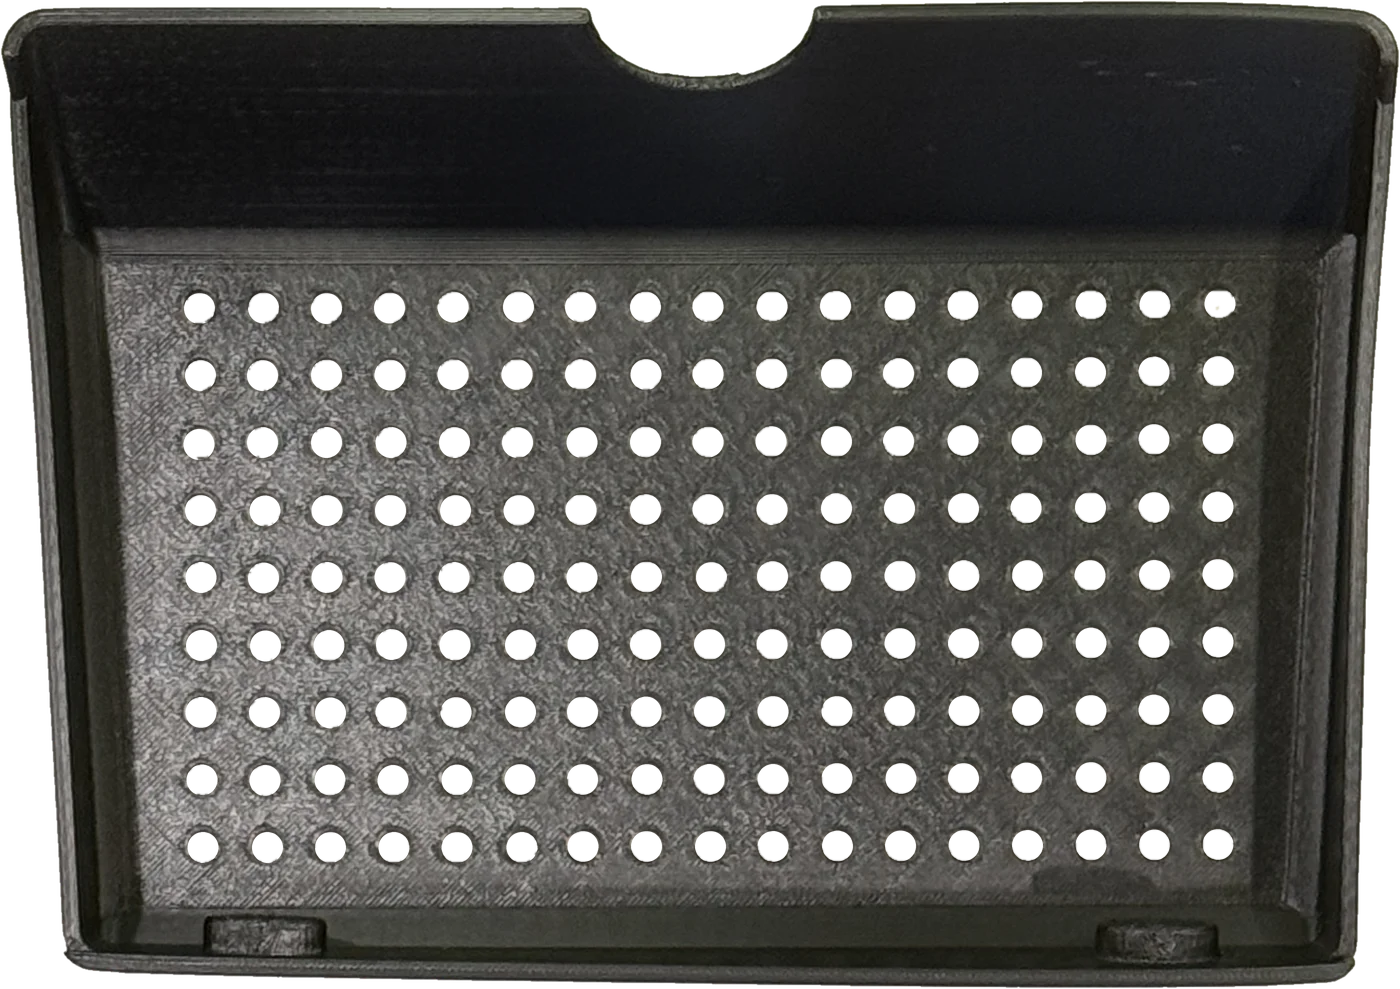
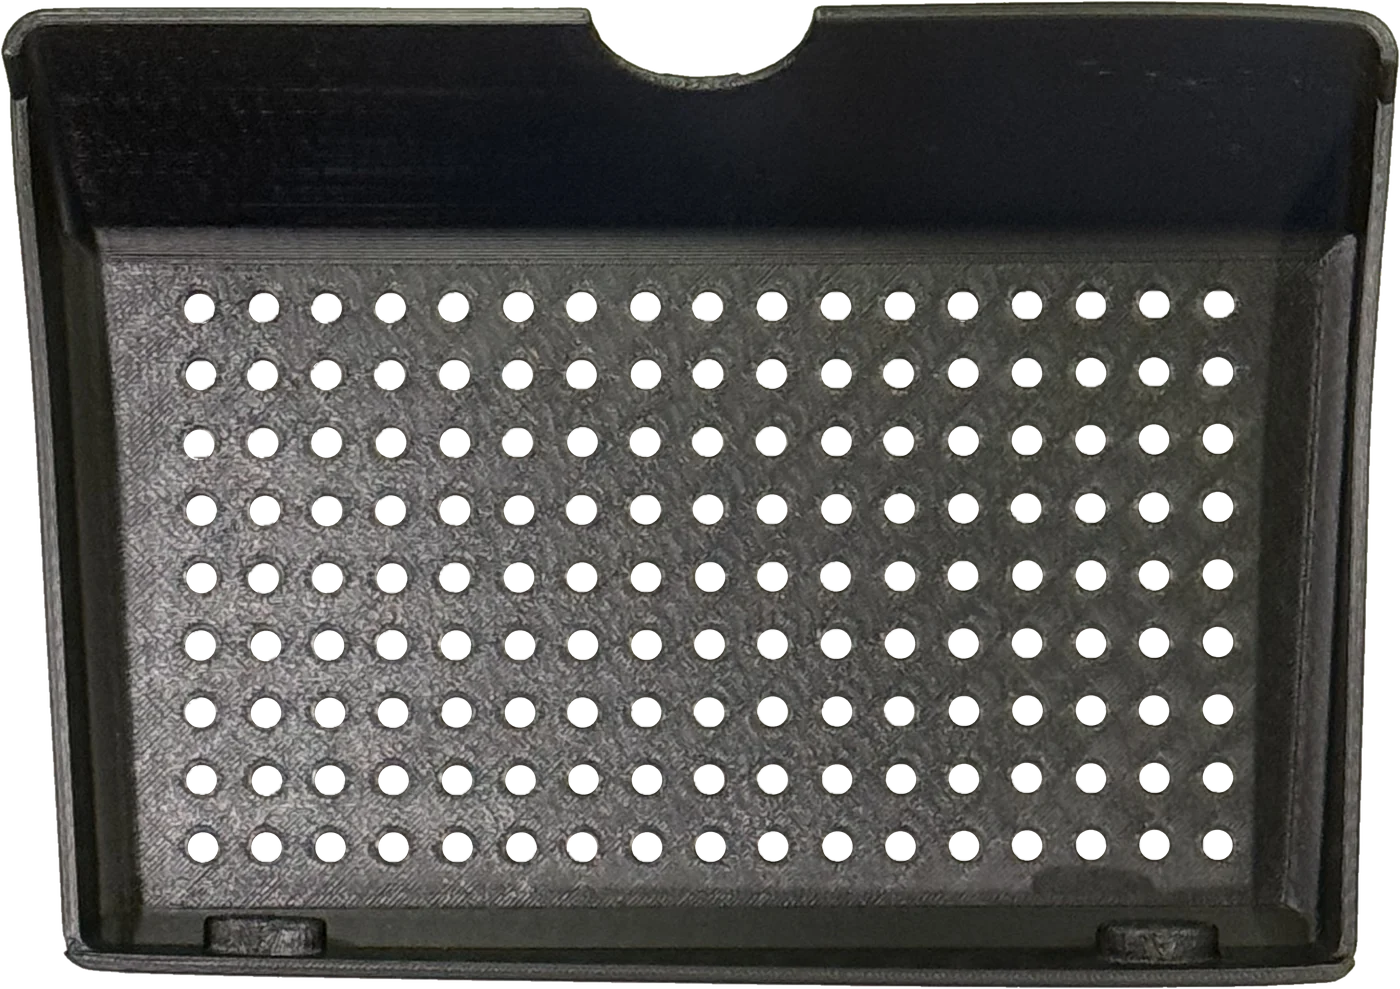
Modular Car Container: past the parts, every frame is the fourth frame itself — the lip along the top and the rim down the sides no longer go lighter and darker as the parts come; only each part and a soft margin round it are its own frame's

diff --git a/scripts/make-container-frames.py b/scripts/make-container-frames.py
@@ -155,6 +155,31 @@ for _i, _f in enumerate(fr):
     _f[..., :3] *= _g[..., None]
 print('light evened: mean gain per frame', _gains)
 
+# And past the parts, the fourth frame itself. The light above is smooth, so
+# it cannot follow a thing as thin as the lip along the top or the rim down
+# the sides, which still went lighter and darker between frames; but the
+# camera did not move, so wherever a frame has nothing the fourth has not
+# (or the fourth something it has not — the holder and pegs, in the first
+# frames), the fourth's own pixels stand in for it, and only the parts, and
+# a soft margin round them for their shadows, are the frame's own. The
+# photographs as taken are carried the same way, so the holes and the paper
+# in them are found in the same pixels the frame shows.
+_l3 = fr[3][..., :3].mean(2)
+# (and a band round the outline always the fourth's: no part comes near the
+# lip or the rim, but the light on them moves enough to pass for one)
+_inside = np.asarray(Image.fromarray(((fr[3][..., 3] > 250) * 255).astype('uint8')).filter(ImageFilter.MinFilter(71))) > 0
+_own_areas = []
+for _i in range(len(fr)):
+    if _i == 3: continue
+    _li = fr[_i][..., :3].mean(2)
+    _d = (np.abs(_li - _l3) > 30) & _inside
+    _d = np.asarray(Image.fromarray((_d * 255).astype('uint8')).filter(ImageFilter.MinFilter(3)).filter(ImageFilter.MaxFilter(41))) > 0
+    _own = np.asarray(Image.fromarray((_d * 255).astype('uint8')).filter(ImageFilter.GaussianBlur(10))).astype(float)[..., None] / 255
+    _own_areas.append(round(float(_own.mean()), 3))
+    for _set in (fr, raw):
+        _set[_i][..., :3] = _set[_i][..., :3] * _own + _set[3][..., :3] * (1 - _own)
+print('own share of each frame (the rest the fourth):', _own_areas)
+
 # The key frame (6) made from the two either side of it: the hook frame's
 # left side and the sunglasses frame's right, where the key is — so the key
 # is already where it sits when the sunglasses arrive, and does not shift
